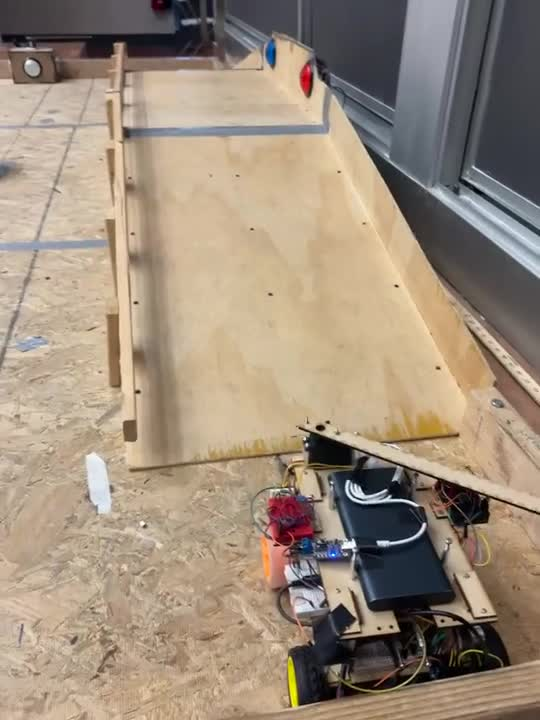
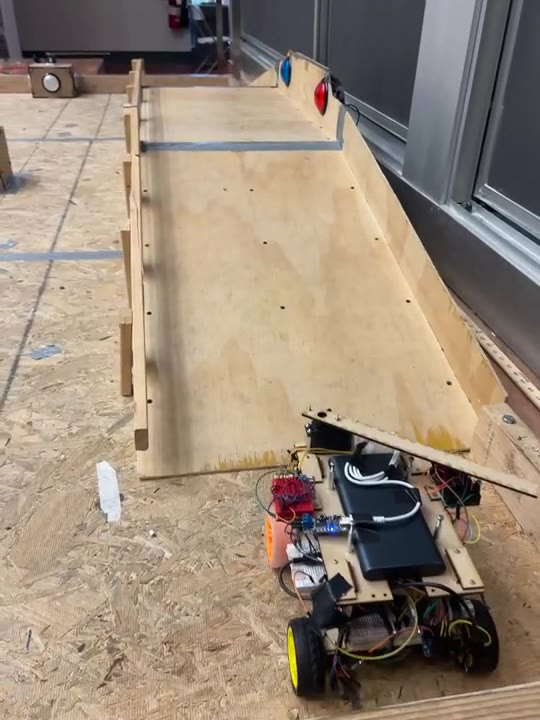
Update portfolio dates and presentation

diff --git a/README.md b/README.md
@@ -1,12 +1,14 @@
 # ROBA: ESP32 Mobile Robot and Driver Station
 
+**Project date:** Fall 2025
+
 A four-wheel competition robot integrating an Xbox/Python driver station, an ESP32 master and sensor slave, range-feedback wall following, Vive target navigation, and a servo mechanism. Operator commands and onboard sensing feed a common motor-control system; fixed-time attack routines are kept distinct from feedback navigation.
 
 <img src="docs/assets/robot-cover.jpg" width="720" alt="Assembled ROBA robot with MDF chassis, four-wheel drivetrain, top servo mechanism and exposed control electronics">
 
 [![Recorded arena traversal beside a wall](docs/assets/wall-traversal-poster.jpg)](https://yixiaoliu.me/projects/roba-mobile-robot/#demonstrations)
 
-*Real hardware footage: traversal alongside the arena boundary followed by a turn. Open the project page for three controlled-playback clips. Recorded during the team project.*
+*Real hardware footage: traversal alongside the arena boundary followed by a turn. Open the project page for three arena demonstrations with original audio.*
 
 [Project page and videos](https://yixiaoliu.me/projects/roba-mobile-robot/) · [Final report](MEAM_5100_final_report.pdf) · [Operating guide](docs/OPERATING_GUIDE.md)
 
@@ -57,6 +59,6 @@ The [project page](https://yixiaoliu.me/projects/roba-mobile-robot/) includes fu
 
 Report-linked historical recordings: [competition nexus routine](https://www.youtube.com/watch?v=f1X58f-0aBQ) and [high-tower test](https://www.youtube.com/shorts/K8pAkWYsFU8). The report provides context for the competition routines.
 
-Vive noise motivated using timed sequences for capture tasks. The committed attack functions use blocking `delay()` calls despite the report's nonblocking description. There is no enforced UDP-loss watchdog; S does not cancel active navigation. Those preserved limitations, supply/logic-level requirements and reproduction conditions are detailed in the operating guide.
+Vive noise motivated timed capture routines. See the [operating guide](docs/OPERATING_GUIDE.md) for setup, mode cancellation, stop handling and link-loss behavior.
 
 Developed as a Penn MEAM 5100 team project.

diff --git a/docs/MEDIA.md b/docs/MEDIA.md
@@ -1,13 +1,16 @@
-# Demonstration assets
+# ROBA demonstration media
 
-Photos show the assembled robot, mechanism and electronics from the team project. The architecture SVG documents the implemented connections: UART carries distance data; I²C is the optional TopHat packet-count link.
+The project page presents three complete arena recordings with original audio:
 
-## Video sources
-
-| Display asset | Original recording | Duration | Scene |
+| Display asset | Supplied recording | Duration | Demonstration |
 |---|---|---:|---|
-| `wall-traversal.mp4` | `f9ad7077e4d004b857de5500ef0f0b52.mp4` | 32.6 s | Traversal beside the right arena boundary and a turn |
-| `arena-maneuver.mp4` | `f38e2fc6ee08b249e4880a0488aac80d.mp4` | 17.9 s | Corridor travel and heading change |
-| `contact-sequence.mp4` | `5a1a08aa0adf212177431299c01d56f6.mp4` | 16.2 s | Approach and repeated contact motion at a field target |
+| `wall-traversal.mp4` | `537f8fdbea432ea07f1c5369ed34f25e.mp4` | 32.6 s | Right-boundary traversal and turn |
+| `arena-maneuver.mp4` | `8f84ee4a568ab6993aa1afe72c836aff.mp4` | 17.9 s | Corridor travel and heading change |
+| `contact-sequence.mp4` | `e92f94646d59cfd395c4f71e26f5812c.mp4` | 16.2 s | Approach and repeated target contact |
 
-Display videos retain each complete clip, original aspect ratio and elapsed time. H.264 copies omit audio for browser playback. Posters use original video frames. The project page also links the report's competition nexus and high-tower recordings.
+Display files use H.264 video, the original AAC audio stream and fast-start MP4.
+Framing, aspect ratios and elapsed time are preserved. Native controls provide
+playback, seeking, volume and mute. Posters are original frames at 2 s.
+
+[Watch the demonstrations](https://yixiaoliu.me/projects/roba-mobile-robot/#demonstrations).
+The repository README links the matching wall-traversal poster to this section.
